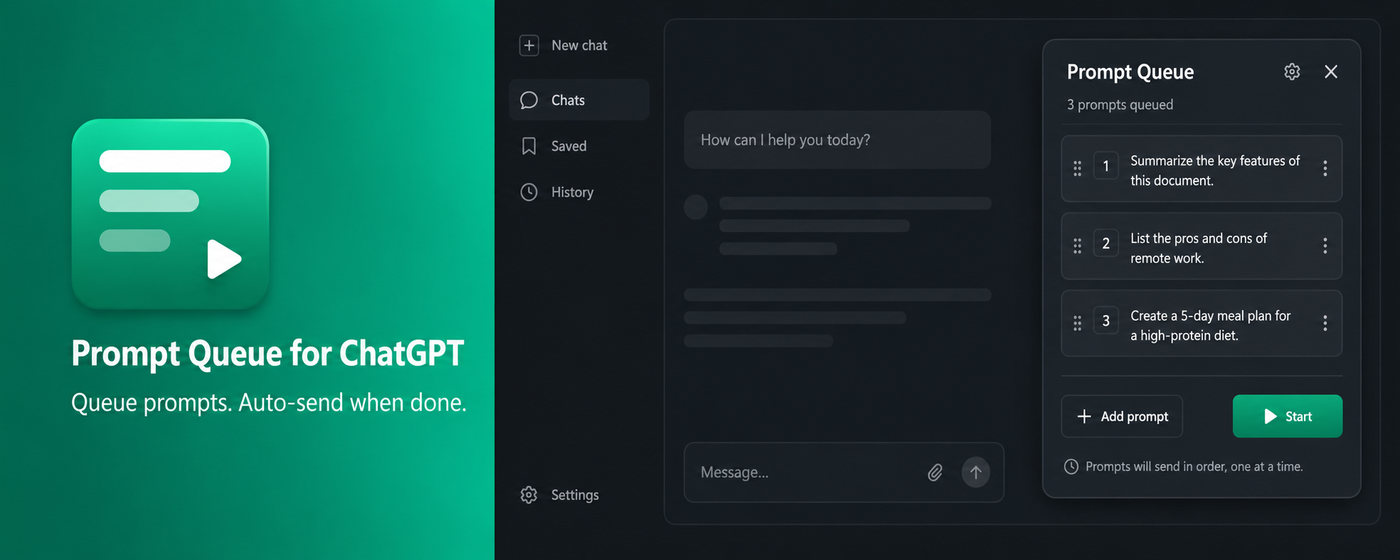
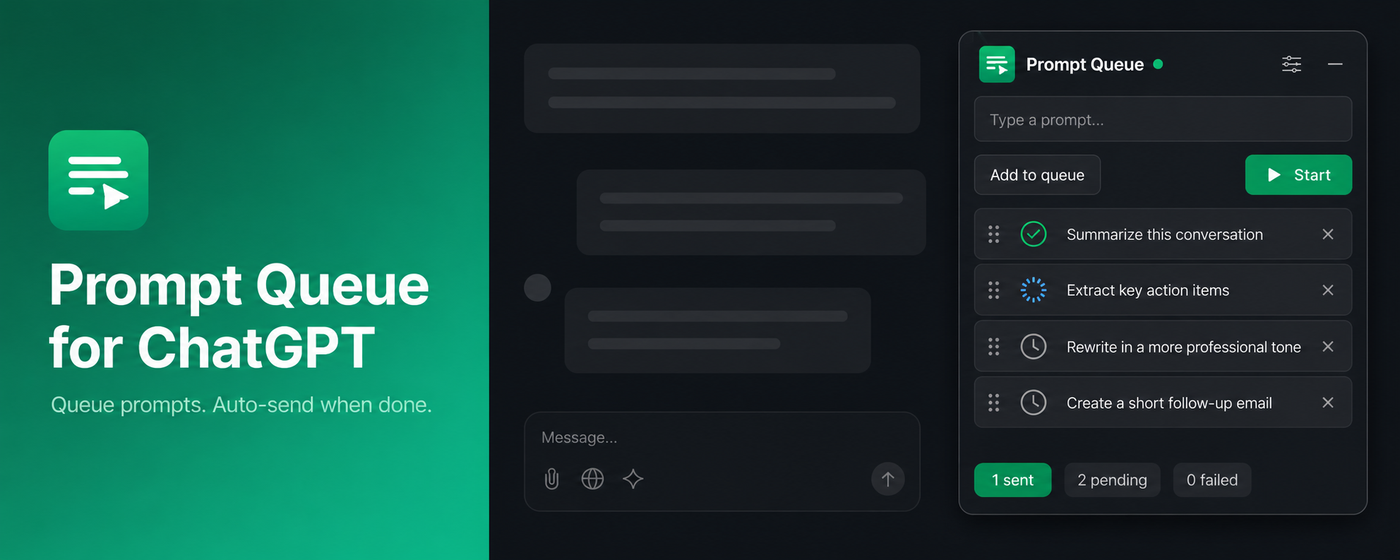
docs(store): refresh screenshots and promo tiles for redesigned UI
- Replace the 3 store screenshots (1280x800) and 2 promo tiles
  (440x280, 1400x560) with mockups of the new panel design.
- Update store/ASSETS.md screenshot/marquee prompts to describe the
  redesigned UI (status icons, drag handle, drop indicator, footer chips).

diff --git a/store/ASSETS.md b/store/ASSETS.md
@@ -41,15 +41,21 @@ A flat, minimal app icon, 128x128, no text. A rounded-corner square (corner radi
 
 Generate clean UI mockups that match the real extension UI described below. These appear on the store listing.
 
-Real UI to depict accurately:
-- The page behind is a ChatGPT-style chat interface, DARK theme (very dark gray background ~`#1f1f1f`, a centered conversation column, a message composer text box near the bottom-center).
-- The extension's panel floats in the BOTTOM-RIGHT corner. It is 360px wide, dark gray (`#1f2023`), rounded corners (10px), subtle shadow, thin border.
-- Panel header row: a small colored status dot, the title text "Prompt Queue", and on the right a gear icon button and a "—" collapse button.
-- Below the header: a multi-line text input with placeholder "Type a prompt...  (Ctrl+Enter to add)".
-- A button row: a gray "Add to queue" button on the left, and a green "Start" button (`#10a37f`, white text) on the right.
-- A vertical list of queued items. Each item is a rounded card showing the prompt text and a small "x" remove control. Item states: normal (pending), a green-tinted/blue-border item (sending), a dimmed item (done), and a red-bordered item with small red "Error: ..." text plus "Retry" and "Skip" buttons (failed).
-- A footer line in small muted text: "2 sent - 3 pending - 0 failed" style counts.
-- The collapsed state (for the hero) is just a small green rounded "pill" in the bottom-right showing a play/pause glyph and a count like "3 queued".
+Real UI to depict accurately (current redesigned UI):
+- The page behind is a ChatGPT-style chat interface, DARK theme (near-black background, a centered conversation column with neutral placeholder bubbles, a rounded message composer near the bottom center).
+- The extension's panel floats in the BOTTOM-RIGHT corner. It is about 360px wide, a dark gray surface (`#26282c`), 16px rounded corners, a soft drop shadow, and a thin 1px border (`#34373d`).
+- Panel header: on the LEFT a small rounded-square logo mark with a green gradient (`#12b48c` to `#0c8a68`) containing three white horizontal bars of decreasing opacity plus a small white play triangle, then the title "Prompt Queue" in white semibold, then a small green status dot. On the RIGHT two subtle (transparent) icon buttons: a "settings" sliders icon (two horizontal lines each with a small round knob) and a minimize dash.
+- Compose area: a rounded multi-line input (slightly lighter inset `#2d2f34`) with placeholder "Type a prompt...  (Ctrl+Enter to add)"; below it a row with a subtle "Add to queue" button on the left and a green primary button on the right that reads "Start" (with a small play triangle) or "Pause" (with a small pause glyph). Accent green is `#19b894` in dark mode.
+- Queue list: each item is its own rounded card (`#26282c`) containing, left to right: a faint six-dot drag handle, a small circular status icon, the prompt text, and a small "x" remove control on the right. Status icon + card states:
+  - pending: a muted gray clock outline
+  - sending: a blue spinner arc; the card has a faint blue tint
+  - done: a green check; the card is dimmed and its text has a strikethrough
+  - failed: a red warning triangle; the card has a faint red tint, a small red "Error: send-click-ignored" line under the text, and small "Retry" and "Skip" buttons
+  - reordering: a thin green accent line across the TOP edge of a card shows where a dragged item will drop
+- Footer: three small rounded pill chips reading like "1 sent", "2 pending", "1 failed". The "sent" chip turns green and the "failed" chip turns red when their count is greater than zero; "pending" stays neutral gray.
+- Optional settings drawer (below the list): a "Delay between messages" label with a value like "2.0s", a thin green slider, and small "Clear completed / Export / Import" buttons.
+- Collapsed state (for the hero): a small rounded "pill" in the bottom-right containing the green logo mark, a small status dot, the word "Queue", and a small green circular count badge (e.g., "3").
+- Style for all screenshots: flat, modern, crisp UI mockup (not photorealistic), high contrast, no OpenAI logo, no watermark, no real user data.
 
 ### 2a. Hero / collapsed pill
 
@@ -58,7 +64,7 @@ Real UI to depict accurately:
 | screenshot-01-hero.png | 1280x800 | `store/screenshots/screenshot-01-hero.png` |
 
 ```
-A 1280x800 product screenshot, dark theme. Background: a clean ChatGPT-style chat web page in dark mode (dark gray ~#1f1f1f, a centered conversation column with a couple of neutral placeholder chat bubbles, and a rounded message composer box near the bottom center). In the bottom-right corner, a small rounded "pill" button with a green gradient (#12b48c to #0c8a68), white text reading "3 queued" preceded by a small white play triangle, and a tiny status dot. Minimal, flat, modern, no real text content in the chat, no OpenAI logo, no watermark. Crisp UI mockup, not photorealistic.
+A 1280x800 product screenshot, dark theme, crisp flat UI mockup (not photorealistic). Background: a clean ChatGPT-style chat web page in dark mode (near-black background, a centered conversation column with a couple of neutral gray placeholder chat bubbles, and a rounded message composer box near the bottom center). In the bottom-right corner, a small rounded white-bordered "pill" on a dark surface (#26282c) containing: a small rounded-square logo mark with a green gradient (#12b48c to #0c8a68) holding three white horizontal bars of decreasing opacity and a tiny white play triangle, then a small green status dot, then the word "Queue" in light text, then a small green circular badge with the number "3". Soft shadow under the pill. No real text content in the chat, no OpenAI logo, no watermark.
 ```
 
 ### 2b. Expanded queue panel
@@ -68,7 +74,7 @@ A 1280x800 product screenshot, dark theme. Background: a clean ChatGPT-style cha
 | screenshot-02-queue-panel.png | 1280x800 | `store/screenshots/screenshot-02-queue-panel.png` |
 
 ```
-A 1280x800 product screenshot, dark theme. Same dark ChatGPT-style page in the background. In the bottom-right, an expanded floating panel, 360px wide, dark gray (#1f2023), rounded corners, subtle shadow. Top of panel: a small green status dot, the title "Prompt Queue", and on the right a gear icon and a long-dash collapse button. Below: a text input with faint placeholder "Type a prompt...". A button row with a gray "Add to queue" button and a green "Start" button (#10a37f, white text). Below that, a vertical list of 4 rounded item cards containing short generic prompt texts; show two as normal pending, one dimmed as "done", and one with a blue left edge labeled as sending. A small muted footer line reading "1 sent - 3 pending - 0 failed". Clean flat modern UI mockup, no OpenAI logo, no watermark.
+A 1280x800 product screenshot, dark theme, crisp flat UI mockup. Same dark ChatGPT-style page in the background. In the bottom-right, an expanded floating panel about 360px wide, dark gray surface (#26282c), 16px rounded corners, soft shadow, thin border. Header: a small rounded-square green-gradient logo mark (three white bars of decreasing opacity + a tiny white play triangle), the title "Prompt Queue" in white semibold, a small green status dot, and on the far right two faint icon buttons (a sliders "settings" icon and a minimize dash). Below the header: a rounded text input (slightly lighter inset) with faint placeholder "Type a prompt...", then a row with a subtle "Add to queue" button on the left and a green "Start" button with a small play triangle on the right (accent green #19b894). Below that, a vertical list of 4 rounded item cards; each card has a faint six-dot drag handle on the left, a small circular status icon, short generic prompt text, and a faint "x" on the right. Make one card "done" (dimmed, green check, text with a strikethrough), one "sending" (faint blue tint, small blue spinner), and two "pending" (muted gray clock icon); show a thin green accent line across the top edge of one pending card to indicate a drag drop position. Footer: three small rounded pill chips reading "1 sent" (green), "2 pending" (gray), "0 failed" (gray). No OpenAI logo, no watermark.
 ```
 
 ### 2c. Error recovery / auto-send
@@ -78,7 +84,7 @@ A 1280x800 product screenshot, dark theme. Same dark ChatGPT-style page in the b
 | screenshot-03-auto-send.png | 1280x800 | `store/screenshots/screenshot-03-auto-send.png` |
 
 ```
-A 1280x800 product screenshot, dark theme. Same dark ChatGPT-style page. The floating panel (bottom-right, 360px wide, dark gray, rounded) shows the queue list where one item card has a red border with small red text "Error: send-click-ignored" and two small buttons "Retry" and "Skip"; the other items look normal. The green "Start" button has changed to a gray "Pause" button to suggest a run in progress. Muted footer line "2 sent - 1 pending - 1 failed". Clean flat modern UI mockup, high contrast, no OpenAI logo, no watermark.
+A 1280x800 product screenshot, dark theme, crisp flat UI mockup. Same dark ChatGPT-style page. The floating panel (bottom-right, about 360px wide, dark gray #26282c, 16px rounded, soft shadow) with the "Prompt Queue" header (green logo mark, title, green status dot, sliders + minimize icons). The compose row shows a subtle "Add to queue" button and, because a run is in progress, a "Pause" button (with a small pause glyph) instead of Start. The queue list shows several rounded item cards: one "done" (dimmed, green check, strikethrough text), one "sending" (faint blue tint, blue spinner), one "pending" (gray clock), and one "failed" card with a faint red tint, a red warning-triangle status icon, a small red line reading "Error: send-click-ignored", and two small "Retry" and "Skip" buttons. Footer: three small pill chips reading "2 sent" (green), "1 pending" (gray), "1 failed" (red). High contrast, no OpenAI logo, no watermark.
 ```
 
 ---
@@ -102,7 +108,7 @@ A 440x280 marketing tile with a deep green background gradient (#0c8a68 to #12b4
 | marquee-1400x560.png | 1400x560 | `store/promo/marquee-1400x560.png` |
 
 ```
-A 1400x560 wide marketing banner. Left third: a deep green panel (gradient #0c8a68 to #12b48c) with the app logo mark and the title "Prompt Queue for ChatGPT" in bold white, plus the tagline "Queue prompts. Auto-send when done." in lighter white. Right two-thirds: a clean dark-mode mockup of the extension's floating queue panel (dark gray, rounded, a short list of queued prompt cards, a green Start button) sitting over a faint dark ChatGPT-style page. Flat, modern, high contrast, no OpenAI logo, no watermark, no photorealism.
+A 1400x560 wide marketing banner. Left third: a deep green panel (gradient #0c8a68 to #12b48c) with the app logo mark and the title "Prompt Queue for ChatGPT" in bold white, plus the tagline "Queue prompts. Auto-send when done." in lighter white. Right two-thirds: a clean dark-mode mockup of the redesigned floating queue panel (dark gray #26282c, 16px rounded, soft shadow) with a "Prompt Queue" header (green logo mark + title + sliders/minimize icons), a short list of rounded prompt cards each with a six-dot drag handle and a circular status icon (a green check, a blue spinner, gray clocks), a green "Start" button, and small footer pill chips, sitting over a faint dark ChatGPT-style page. Flat, modern, high contrast, no OpenAI logo, no watermark, no photorealism.
 ```
 
 ---
